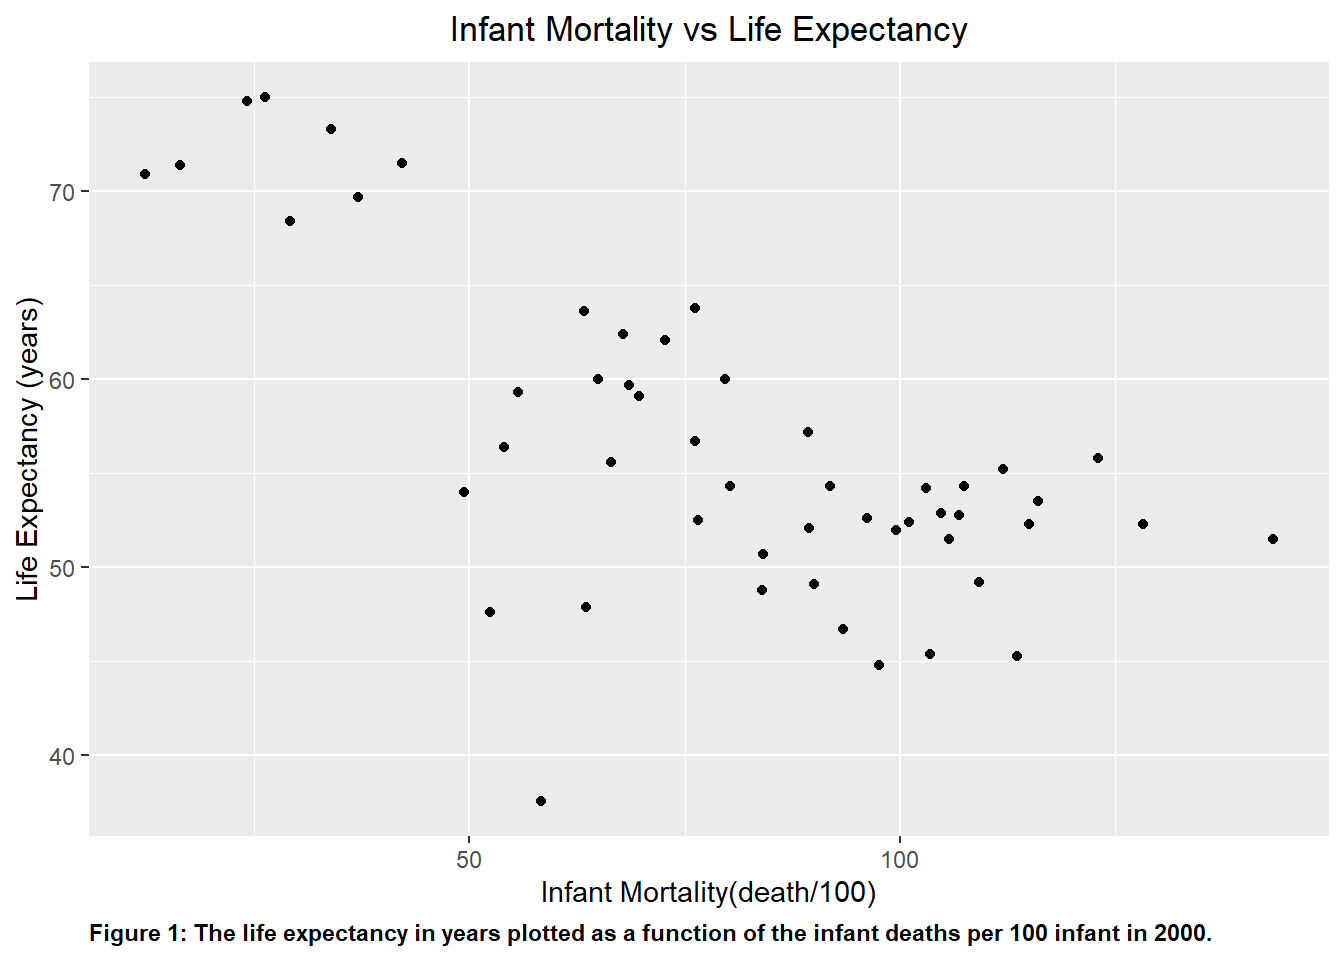
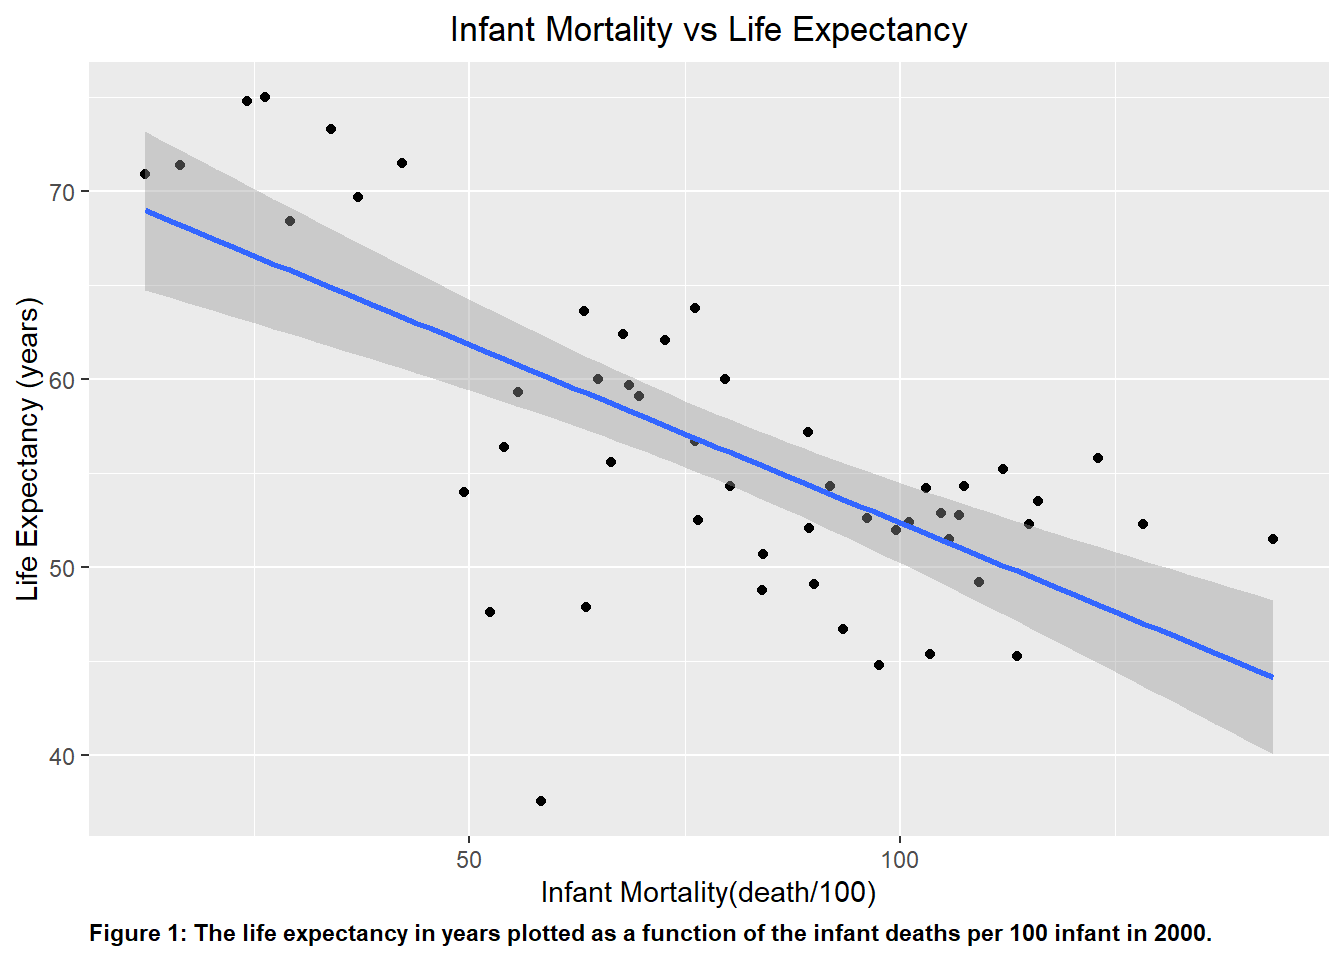
Coding Exercise edits
Edited a few things: mispelled words, visuals, etc

Changed region(s): [[0.0938, 0.125, 0.9688, 0.7812]]

diff --git a/docs/coding-exercise/coding-exercise.html b/docs/coding-exercise/coding-exercise.html
@@ -362,30 +362,29 @@ Note
 </div>
 <div class="cell" style="background-color: lightgray;">
 <div class="sourceCode cell-code" id="cb19"><pre class="sourceCode r code-with-copy"><code class="sourceCode r"><span id="cb19-1"><a href="#cb19-1" aria-hidden="true" tabindex="-1"></a><span class="co">#Using the package ggplot2 (which is found in tidyverse) to create a scatter plot using the variables in the object 'IM_LE' and assigning it to the variable 'p1'</span></span>
-<span id="cb19-2"><a href="#cb19-2" aria-hidden="true" tabindex="-1"></a>p1 <span class="ot">&lt;-</span> </span>
-<span id="cb19-3"><a href="#cb19-3" aria-hidden="true" tabindex="-1"></a>  <span class="fu">ggplot</span>(IM_LE, <span class="fu">aes</span>(<span class="at">x =</span> infant_mortality, <span class="at">y =</span> life_expectancy))<span class="sc">+</span><span class="fu">geom_point</span>()<span class="sc">+</span></span>
-<span id="cb19-4"><a href="#cb19-4" aria-hidden="true" tabindex="-1"></a>  <span class="fu">ggtitle</span>(<span class="st">'Infant Mortality vs Life Expectancy'</span>)<span class="sc">+</span></span>
-<span id="cb19-5"><a href="#cb19-5" aria-hidden="true" tabindex="-1"></a>  <span class="fu">theme</span>(<span class="at">plot.title=</span> <span class="fu">element_text</span>(<span class="at">hjust=</span><span class="fl">0.5</span>))<span class="sc">+</span></span>
-<span id="cb19-6"><a href="#cb19-6" aria-hidden="true" tabindex="-1"></a>  <span class="fu">xlab</span>(<span class="st">'Infant Mortality(death/100)'</span>)<span class="sc">+</span></span>
-<span id="cb19-7"><a href="#cb19-7" aria-hidden="true" tabindex="-1"></a>  <span class="fu">ylab</span>(<span class="st">'Life Expectancy (years)'</span>)<span class="sc">+</span></span>
-<span id="cb19-8"><a href="#cb19-8" aria-hidden="true" tabindex="-1"></a>  <span class="fu">labs</span>(<span class="at">caption =</span> <span class="st">"Figure 1: The life expectancy in years plotted as a function of the infant deaths per 100 infant from 1960-2016."</span>)<span class="sc">+</span></span>
-<span id="cb19-9"><a href="#cb19-9" aria-hidden="true" tabindex="-1"></a>  <span class="fu">theme</span>(<span class="at">plot.caption =</span> <span class="fu">element_text</span>(<span class="at">hjust=</span><span class="dv">0</span>, <span class="at">face=</span><span class="st">"bold"</span>))</span>
-<span id="cb19-10"><a href="#cb19-10" aria-hidden="true" tabindex="-1"></a></span>
-<span id="cb19-11"><a href="#cb19-11" aria-hidden="true" tabindex="-1"></a><span class="co">#The theme() function was a great way to manipulate the specific element in the plot, whether it was color, size, or orientation of the text or visuals.</span></span>
-<span id="cb19-12"><a href="#cb19-12" aria-hidden="true" tabindex="-1"></a></span>
-<span id="cb19-13"><a href="#cb19-13" aria-hidden="true" tabindex="-1"></a><span class="co">#Using the plot() function to determine if the plot was properly created</span></span>
-<span id="cb19-14"><a href="#cb19-14" aria-hidden="true" tabindex="-1"></a><span class="fu">plot</span>(p1)</span></code><button title="Copy to Clipboard" class="code-copy-button"><i class="bi"></i></button></pre></div>
+<span id="cb19-2"><a href="#cb19-2" aria-hidden="true" tabindex="-1"></a>p1 <span class="ot">&lt;-</span> <span class="fu">ggplot</span>(IM_LE, <span class="fu">aes</span>(<span class="at">x =</span> infant_mortality, <span class="at">y =</span> life_expectancy))<span class="sc">+</span><span class="fu">geom_point</span>()<span class="sc">+</span></span>
+<span id="cb19-3"><a href="#cb19-3" aria-hidden="true" tabindex="-1"></a>      <span class="fu">ggtitle</span>(<span class="st">'Infant Mortality vs Life Expectancy'</span>)<span class="sc">+</span></span>
+<span id="cb19-4"><a href="#cb19-4" aria-hidden="true" tabindex="-1"></a>      <span class="fu">theme</span>(<span class="at">plot.title=</span> <span class="fu">element_text</span>(<span class="at">hjust=</span><span class="fl">0.5</span>))<span class="sc">+</span></span>
+<span id="cb19-5"><a href="#cb19-5" aria-hidden="true" tabindex="-1"></a>      <span class="fu">xlab</span>(<span class="st">'Infant Mortality(death/100)'</span>)<span class="sc">+</span></span>
+<span id="cb19-6"><a href="#cb19-6" aria-hidden="true" tabindex="-1"></a>      <span class="fu">ylab</span>(<span class="st">'Life Expectancy (years)'</span>)<span class="sc">+</span></span>
+<span id="cb19-7"><a href="#cb19-7" aria-hidden="true" tabindex="-1"></a>      <span class="fu">labs</span>(<span class="at">caption =</span> <span class="st">"Figure 1: The life expectancy in years plotted as a function of the infant deaths per 100 infant from 1960-2016."</span>)<span class="sc">+</span></span>
+<span id="cb19-8"><a href="#cb19-8" aria-hidden="true" tabindex="-1"></a>      <span class="fu">theme</span>(<span class="at">plot.caption =</span> <span class="fu">element_text</span>(<span class="at">hjust=</span><span class="dv">0</span>, <span class="at">face=</span><span class="st">"bold"</span>))</span>
+<span id="cb19-9"><a href="#cb19-9" aria-hidden="true" tabindex="-1"></a></span>
+<span id="cb19-10"><a href="#cb19-10" aria-hidden="true" tabindex="-1"></a><span class="co">#The theme() function was a great way to manipulate the specific element in the plot, whether it was color, size, or orientation of the text or visuals.</span></span>
+<span id="cb19-11"><a href="#cb19-11" aria-hidden="true" tabindex="-1"></a></span>
+<span id="cb19-12"><a href="#cb19-12" aria-hidden="true" tabindex="-1"></a><span class="co">#Using the plot() function to determine if the plot was properly created</span></span>
+<span id="cb19-13"><a href="#cb19-13" aria-hidden="true" tabindex="-1"></a><span class="fu">plot</span>(p1)</span></code><button title="Copy to Clipboard" class="code-copy-button"><i class="bi"></i></button></pre></div>
 <div class="cell-output-display">
 <p><img src="coding-exercise_files/figure-html/unnamed-chunk-3-1.png" class="img-fluid" width="672"></p>
 </div>
 <div class="sourceCode cell-code" id="cb20"><pre class="sourceCode r code-with-copy"><code class="sourceCode r"><span id="cb20-1"><a href="#cb20-1" aria-hidden="true" tabindex="-1"></a><span class="co">#Repeating the previous step(s) to plot Pop_LE into the object 'p2'. The data is heavily clustered together due to the immense magnitude of the population, so the population axis was scaled by taking the logarithm of it.</span></span>
 <span id="cb20-2"><a href="#cb20-2" aria-hidden="true" tabindex="-1"></a>p2 <span class="ot">&lt;-</span> <span class="fu">ggplot</span>(Pop_LE, <span class="fu">aes</span>(<span class="at">x =</span> <span class="fu">log</span>(population), <span class="at">y =</span> life_expectancy))<span class="sc">+</span><span class="fu">geom_point</span>()<span class="sc">+</span></span>
-<span id="cb20-3"><a href="#cb20-3" aria-hidden="true" tabindex="-1"></a>  <span class="fu">ggtitle</span>(<span class="st">'Country Population vs Life Expectancy'</span>)<span class="sc">+</span></span>
-<span id="cb20-4"><a href="#cb20-4" aria-hidden="true" tabindex="-1"></a>  <span class="fu">theme</span>(<span class="at">plot.title=</span> <span class="fu">element_text</span>(<span class="at">hjust=</span><span class="fl">0.5</span>))<span class="sc">+</span></span>
-<span id="cb20-5"><a href="#cb20-5" aria-hidden="true" tabindex="-1"></a>  <span class="fu">xlab</span>(<span class="st">'log(Population)'</span>)<span class="sc">+</span></span>
-<span id="cb20-6"><a href="#cb20-6" aria-hidden="true" tabindex="-1"></a>  <span class="fu">ylab</span>(<span class="st">'Life Expectancy (years)'</span>)<span class="sc">+</span></span>
-<span id="cb20-7"><a href="#cb20-7" aria-hidden="true" tabindex="-1"></a>  <span class="fu">labs</span>(<span class="at">caption =</span> <span class="st">"Figure 1: The life expectancy in years plotted as a function of the population in African countries from 1960-2016."</span>)<span class="sc">+</span></span>
-<span id="cb20-8"><a href="#cb20-8" aria-hidden="true" tabindex="-1"></a>  <span class="fu">theme</span>(<span class="at">plot.caption =</span> <span class="fu">element_text</span>(<span class="at">hjust=</span><span class="dv">0</span>, <span class="at">face=</span><span class="st">"bold"</span>))</span>
+<span id="cb20-3"><a href="#cb20-3" aria-hidden="true" tabindex="-1"></a>      <span class="fu">ggtitle</span>(<span class="st">'Country Population vs Life Expectancy'</span>)<span class="sc">+</span></span>
+<span id="cb20-4"><a href="#cb20-4" aria-hidden="true" tabindex="-1"></a>      <span class="fu">theme</span>(<span class="at">plot.title=</span> <span class="fu">element_text</span>(<span class="at">hjust=</span><span class="fl">0.5</span>))<span class="sc">+</span></span>
+<span id="cb20-5"><a href="#cb20-5" aria-hidden="true" tabindex="-1"></a>      <span class="fu">xlab</span>(<span class="st">'log(Population)'</span>)<span class="sc">+</span></span>
+<span id="cb20-6"><a href="#cb20-6" aria-hidden="true" tabindex="-1"></a>      <span class="fu">ylab</span>(<span class="st">'Life Expectancy (years)'</span>)<span class="sc">+</span></span>
+<span id="cb20-7"><a href="#cb20-7" aria-hidden="true" tabindex="-1"></a>      <span class="fu">labs</span>(<span class="at">caption =</span> <span class="st">"Figure 1: The life expectancy in years plotted as a function of the population in African countries from 1960-2016."</span>)<span class="sc">+</span></span>
+<span id="cb20-8"><a href="#cb20-8" aria-hidden="true" tabindex="-1"></a>      <span class="fu">theme</span>(<span class="at">plot.caption =</span> <span class="fu">element_text</span>(<span class="at">hjust=</span><span class="dv">0</span>, <span class="at">face=</span><span class="st">"bold"</span>))</span>
 <span id="cb20-9"><a href="#cb20-9" aria-hidden="true" tabindex="-1"></a></span>
 <span id="cb20-10"><a href="#cb20-10" aria-hidden="true" tabindex="-1"></a><span class="co">#Using the plot() function to determine if the plot was properly created</span></span>
 <span id="cb20-11"><a href="#cb20-11" aria-hidden="true" tabindex="-1"></a><span class="fu">plot</span>(p2)</span></code><button title="Copy to Clipboard" class="code-copy-button"><i class="bi"></i></button></pre></div>
@@ -394,7 +393,7 @@ Note
 </div>
 </div>
 <p>The plots shown above shows a negative correlation between infant mortality and life expectancy. The second plot shows a positive correlation between population size and life expectancy, showing that people tend to live longer as the population grows.</p>
-<p>The ‘streaks’ of data that is shown in the plot can be explained by the continuous collection of data from certain locations over the span of several years. As indicated in plot ‘p2’, a countries’ population tend to increase over time.</p>
+<p>The “streaks” of data that is shown in the plot can be explained by the continuous collection of data from certain locations over the span of several years. As indicated in plot <code>p2</code>, a countries’ population tend to increase over time.</p>
 </section>
 <section id="more-data-processing" class="level2">
 <h2 class="anchored" data-anchor-id="more-data-processing"><em>More</em> Data Processing</h2>
@@ -510,28 +509,27 @@ Note
 <h2 class="anchored" data-anchor-id="more-plotting"><em>More</em> Plotting</h2>
 <div class="cell" style="background-color: lightgray;">
 <div class="sourceCode cell-code" id="cb33"><pre class="sourceCode r code-with-copy"><code class="sourceCode r"><span id="cb33-1"><a href="#cb33-1" aria-hidden="true" tabindex="-1"></a><span class="co">#Using the package ggplot2 to plot Life expectancy vs infant mortality for the year 2000 in 'p3' </span></span>
-<span id="cb33-2"><a href="#cb33-2" aria-hidden="true" tabindex="-1"></a>p3 <span class="ot">&lt;-</span> </span>
-<span id="cb33-3"><a href="#cb33-3" aria-hidden="true" tabindex="-1"></a>  <span class="fu">ggplot</span>(year2000, <span class="fu">aes</span>(<span class="at">x =</span> infant_mortality, <span class="at">y =</span> life_expectancy))<span class="sc">+</span><span class="fu">geom_point</span>()<span class="sc">+</span></span>
-<span id="cb33-4"><a href="#cb33-4" aria-hidden="true" tabindex="-1"></a>  <span class="fu">ggtitle</span>(<span class="st">'Infant Mortality vs Life Expectancy'</span>)<span class="sc">+</span></span>
-<span id="cb33-5"><a href="#cb33-5" aria-hidden="true" tabindex="-1"></a>  <span class="fu">theme</span>(<span class="at">plot.title=</span> <span class="fu">element_text</span>(<span class="at">hjust=</span><span class="fl">0.5</span>))<span class="sc">+</span></span>
-<span id="cb33-6"><a href="#cb33-6" aria-hidden="true" tabindex="-1"></a>  <span class="fu">xlab</span>(<span class="st">'Infant Mortality(death/100)'</span>)<span class="sc">+</span></span>
-<span id="cb33-7"><a href="#cb33-7" aria-hidden="true" tabindex="-1"></a>  <span class="fu">ylab</span>(<span class="st">'Life Expectancy (years)'</span>)<span class="sc">+</span></span>
-<span id="cb33-8"><a href="#cb33-8" aria-hidden="true" tabindex="-1"></a>  <span class="fu">labs</span>(<span class="at">caption =</span> <span class="st">"Figure 1: The life expectancy in years plotted as a function of the infant deaths per 100 infant in 2000."</span>)<span class="sc">+</span></span>
-<span id="cb33-9"><a href="#cb33-9" aria-hidden="true" tabindex="-1"></a>  <span class="fu">theme</span>(<span class="at">plot.caption =</span> <span class="fu">element_text</span>(<span class="at">hjust=</span><span class="dv">0</span>, <span class="at">face=</span><span class="st">"bold"</span>))</span>
-<span id="cb33-10"><a href="#cb33-10" aria-hidden="true" tabindex="-1"></a></span>
-<span id="cb33-11"><a href="#cb33-11" aria-hidden="true" tabindex="-1"></a><span class="co">#Using the plot() function to determine if the plot was properly created</span></span>
-<span id="cb33-12"><a href="#cb33-12" aria-hidden="true" tabindex="-1"></a><span class="fu">plot</span>(p3)</span></code><button title="Copy to Clipboard" class="code-copy-button"><i class="bi"></i></button></pre></div>
+<span id="cb33-2"><a href="#cb33-2" aria-hidden="true" tabindex="-1"></a>p3 <span class="ot">&lt;-</span> <span class="fu">ggplot</span>(year2000, <span class="fu">aes</span>(<span class="at">x =</span> infant_mortality, <span class="at">y =</span> life_expectancy))<span class="sc">+</span><span class="fu">geom_point</span>()<span class="sc">+</span><span class="fu">geom_smooth</span>(<span class="at">method =</span> <span class="st">"lm"</span>)<span class="sc">+</span></span>
+<span id="cb33-3"><a href="#cb33-3" aria-hidden="true" tabindex="-1"></a>      <span class="fu">ggtitle</span>(<span class="st">'Infant Mortality vs Life Expectancy'</span>)<span class="sc">+</span></span>
+<span id="cb33-4"><a href="#cb33-4" aria-hidden="true" tabindex="-1"></a>      <span class="fu">theme</span>(<span class="at">plot.title=</span> <span class="fu">element_text</span>(<span class="at">hjust=</span><span class="fl">0.5</span>))<span class="sc">+</span></span>
+<span id="cb33-5"><a href="#cb33-5" aria-hidden="true" tabindex="-1"></a>      <span class="fu">xlab</span>(<span class="st">'Infant Mortality(death/100)'</span>)<span class="sc">+</span></span>
+<span id="cb33-6"><a href="#cb33-6" aria-hidden="true" tabindex="-1"></a>      <span class="fu">ylab</span>(<span class="st">'Life Expectancy (years)'</span>)<span class="sc">+</span></span>
+<span id="cb33-7"><a href="#cb33-7" aria-hidden="true" tabindex="-1"></a>      <span class="fu">labs</span>(<span class="at">caption =</span> <span class="st">"Figure 1: The life expectancy in years plotted as a function of the infant deaths per 100 infant in 2000."</span>)<span class="sc">+</span></span>
+<span id="cb33-8"><a href="#cb33-8" aria-hidden="true" tabindex="-1"></a>      <span class="fu">theme</span>(<span class="at">plot.caption =</span> <span class="fu">element_text</span>(<span class="at">hjust=</span><span class="dv">0</span>, <span class="at">face=</span><span class="st">"bold"</span>))</span>
+<span id="cb33-9"><a href="#cb33-9" aria-hidden="true" tabindex="-1"></a></span>
+<span id="cb33-10"><a href="#cb33-10" aria-hidden="true" tabindex="-1"></a><span class="co">#Using the plot() function to determine if the plot was properly created</span></span>
+<span id="cb33-11"><a href="#cb33-11" aria-hidden="true" tabindex="-1"></a><span class="fu">plot</span>(p3)</span></code><button title="Copy to Clipboard" class="code-copy-button"><i class="bi"></i></button></pre></div>
 <div class="cell-output-display">
 <p><img src="coding-exercise_files/figure-html/unnamed-chunk-6-1.png" class="img-fluid" width="672"></p>
 </div>
 <div class="sourceCode cell-code" id="cb34"><pre class="sourceCode r code-with-copy"><code class="sourceCode r"><span id="cb34-1"><a href="#cb34-1" aria-hidden="true" tabindex="-1"></a><span class="co">#Repeating the previous step(s) to plot 'year2000' into the object 'p4'. Once again, the log(population) is used to scale and visualize trend with more clarity.</span></span>
-<span id="cb34-2"><a href="#cb34-2" aria-hidden="true" tabindex="-1"></a>p4 <span class="ot">&lt;-</span> <span class="fu">ggplot</span>(year2000, <span class="fu">aes</span>(<span class="at">x =</span> <span class="fu">log</span>(population), <span class="at">y =</span> life_expectancy))<span class="sc">+</span><span class="fu">geom_point</span>()<span class="sc">+</span></span>
-<span id="cb34-3"><a href="#cb34-3" aria-hidden="true" tabindex="-1"></a>  <span class="fu">ggtitle</span>(<span class="st">'Country Population vs Life Expectancy'</span>)<span class="sc">+</span></span>
-<span id="cb34-4"><a href="#cb34-4" aria-hidden="true" tabindex="-1"></a>  <span class="fu">theme</span>(<span class="at">plot.title=</span> <span class="fu">element_text</span>(<span class="at">hjust=</span><span class="fl">0.5</span>))<span class="sc">+</span></span>
-<span id="cb34-5"><a href="#cb34-5" aria-hidden="true" tabindex="-1"></a>  <span class="fu">xlab</span>(<span class="st">'log(Population)'</span>)<span class="sc">+</span></span>
-<span id="cb34-6"><a href="#cb34-6" aria-hidden="true" tabindex="-1"></a>  <span class="fu">ylab</span>(<span class="st">'Life Expectancy (years)'</span>)<span class="sc">+</span></span>
-<span id="cb34-7"><a href="#cb34-7" aria-hidden="true" tabindex="-1"></a>  <span class="fu">labs</span>(<span class="at">caption =</span> <span class="st">"Figure 1: The life expectancy in years plotted as a function of the population in African countries in 2000."</span>)<span class="sc">+</span></span>
-<span id="cb34-8"><a href="#cb34-8" aria-hidden="true" tabindex="-1"></a>  <span class="fu">theme</span>(<span class="at">plot.caption =</span> <span class="fu">element_text</span>(<span class="at">hjust=</span><span class="dv">0</span>, <span class="at">face=</span><span class="st">"bold"</span>))</span>
+<span id="cb34-2"><a href="#cb34-2" aria-hidden="true" tabindex="-1"></a>p4 <span class="ot">&lt;-</span> <span class="fu">ggplot</span>(year2000, <span class="fu">aes</span>(<span class="at">x =</span> <span class="fu">log</span>(population), <span class="at">y =</span> life_expectancy))<span class="sc">+</span><span class="fu">geom_point</span>()<span class="sc">+</span><span class="fu">geom_smooth</span>(<span class="at">method =</span> <span class="st">"lm"</span>)<span class="sc">+</span></span>
+<span id="cb34-3"><a href="#cb34-3" aria-hidden="true" tabindex="-1"></a>      <span class="fu">ggtitle</span>(<span class="st">'Country Population vs Life Expectancy'</span>)<span class="sc">+</span></span>
+<span id="cb34-4"><a href="#cb34-4" aria-hidden="true" tabindex="-1"></a>      <span class="fu">theme</span>(<span class="at">plot.title=</span> <span class="fu">element_text</span>(<span class="at">hjust=</span><span class="fl">0.5</span>))<span class="sc">+</span></span>
+<span id="cb34-5"><a href="#cb34-5" aria-hidden="true" tabindex="-1"></a>      <span class="fu">xlab</span>(<span class="st">'log(Population)'</span>)<span class="sc">+</span></span>
+<span id="cb34-6"><a href="#cb34-6" aria-hidden="true" tabindex="-1"></a>      <span class="fu">ylab</span>(<span class="st">'Life Expectancy (years)'</span>)<span class="sc">+</span></span>
+<span id="cb34-7"><a href="#cb34-7" aria-hidden="true" tabindex="-1"></a>      <span class="fu">labs</span>(<span class="at">caption =</span> <span class="st">"Figure 1: The life expectancy in years plotted as a function of the population in African countries in 2000."</span>)<span class="sc">+</span></span>
+<span id="cb34-8"><a href="#cb34-8" aria-hidden="true" tabindex="-1"></a>      <span class="fu">theme</span>(<span class="at">plot.caption =</span> <span class="fu">element_text</span>(<span class="at">hjust=</span><span class="dv">0</span>, <span class="at">face=</span><span class="st">"bold"</span>))</span>
 <span id="cb34-9"><a href="#cb34-9" aria-hidden="true" tabindex="-1"></a></span>
 <span id="cb34-10"><a href="#cb34-10" aria-hidden="true" tabindex="-1"></a><span class="co">#Using the plot() function to determine if the plot was properly created</span></span>
 <span id="cb34-11"><a href="#cb34-11" aria-hidden="true" tabindex="-1"></a><span class="fu">plot</span>(p4)</span></code><button title="Copy to Clipboard" class="code-copy-button"><i class="bi"></i></button></pre></div>
@@ -539,7 +537,7 @@ Note
 <p><img src="coding-exercise_files/figure-html/unnamed-chunk-6-2.png" class="img-fluid" width="672"></p>
 </div>
 </div>
-<p>Based on visually observing the plots, plot <code>p3</code> shows similar trend as ’p1<code>with negative correlation between infant mortality and life expectancy. However, in</code>p4<code>, the plot showed no noticable correlation, which contrasts greatly with plot</code>p2`.</p>
+<p>Based on visually observing the plots, plot <code>p3</code> shows similar trend as <code>p1</code> with negative correlation between infant mortality and life expectancy. However, in <code>p4</code>, the plot showed no noticeable correlation, which contrasts greatly with plot <code>p2</code>.</p>
 </section>
 <section id="simple-model-fits" class="level2">
 <h2 class="anchored" data-anchor-id="simple-model-fits">Simple Model Fits</h2>
